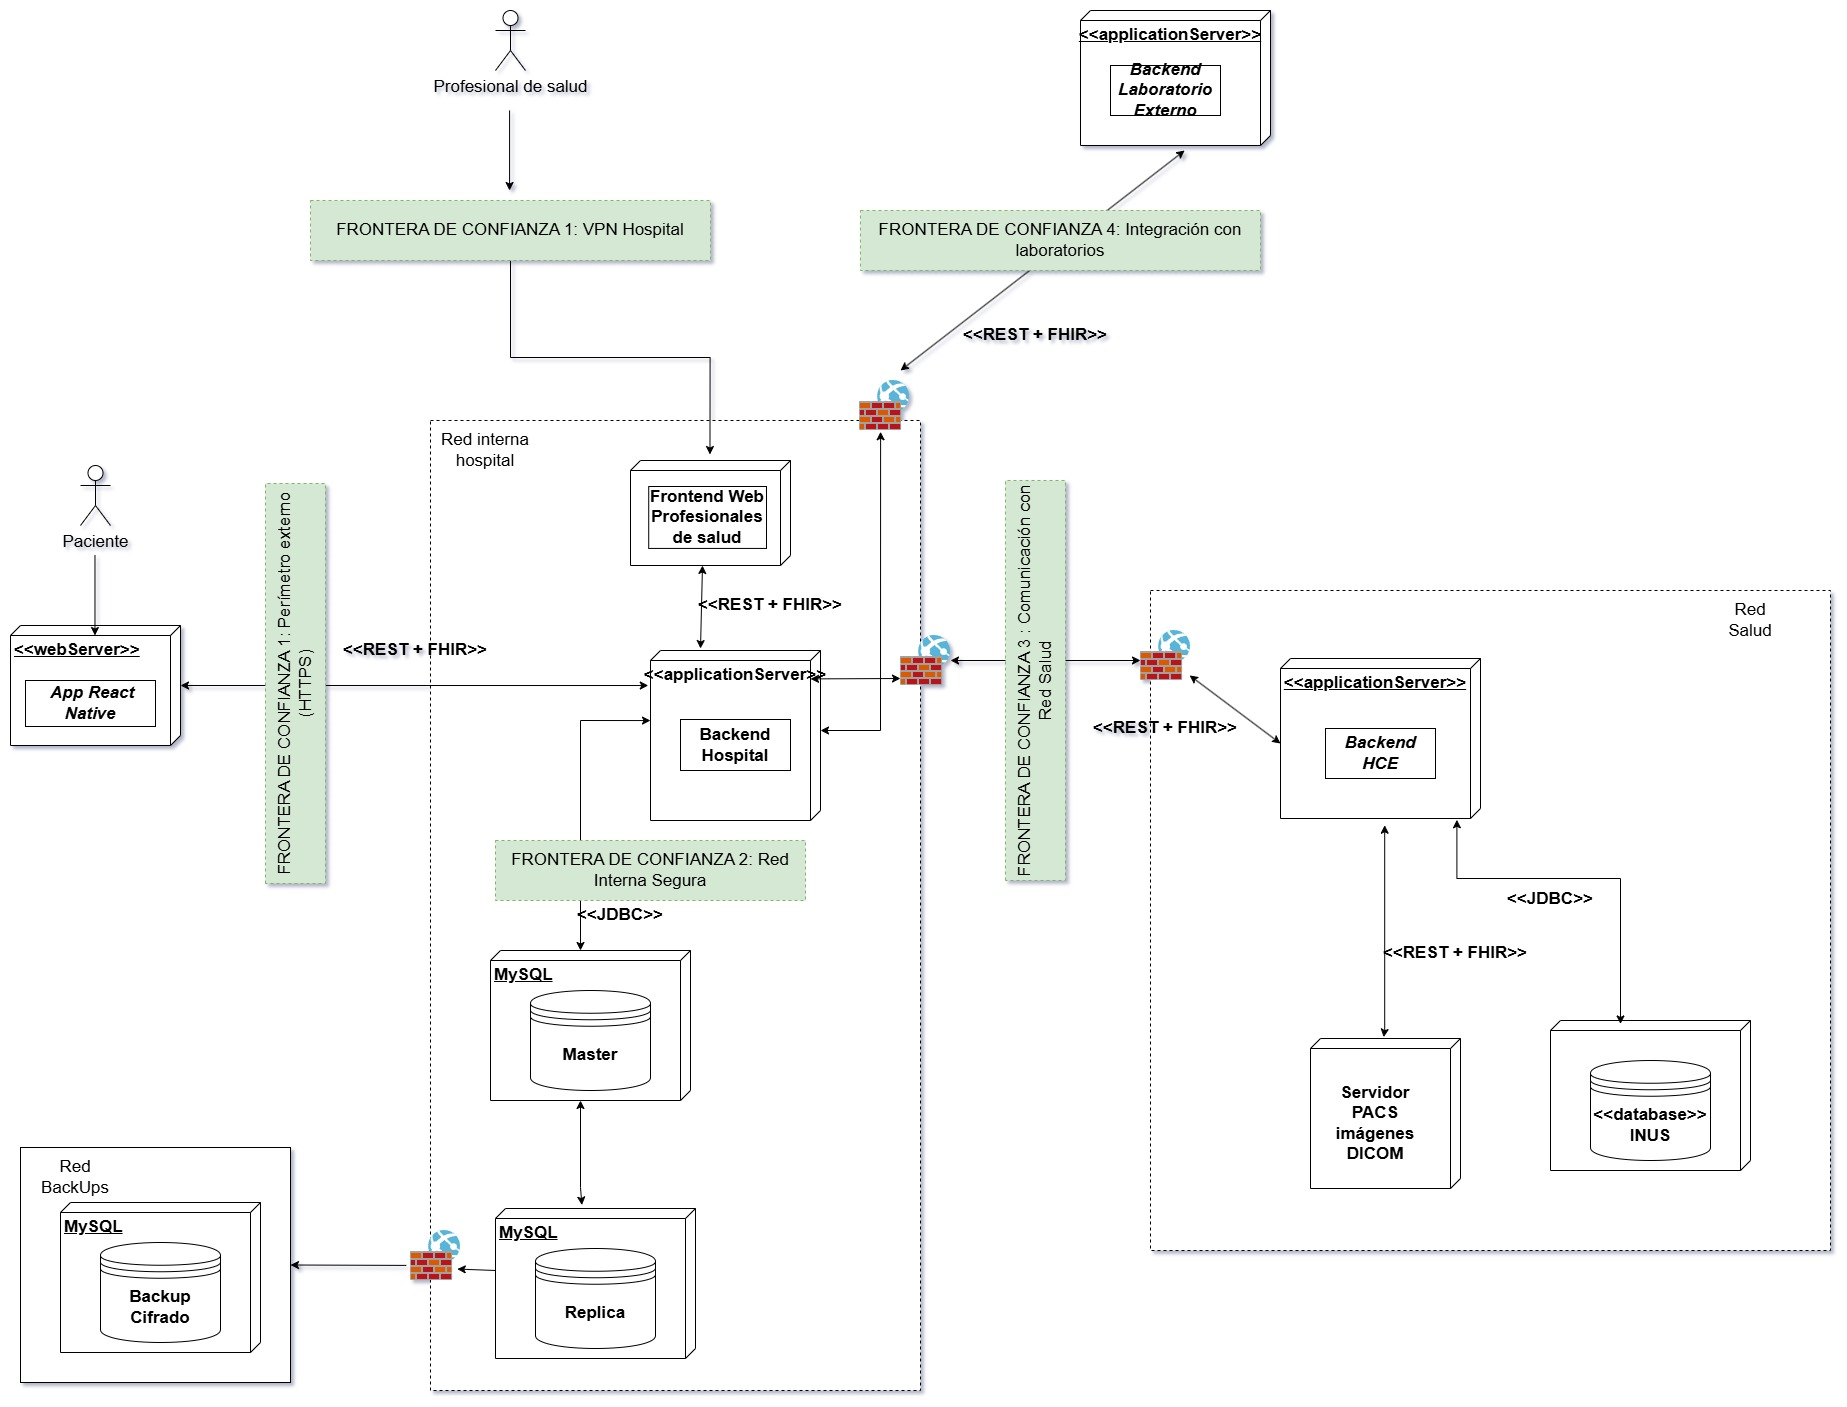
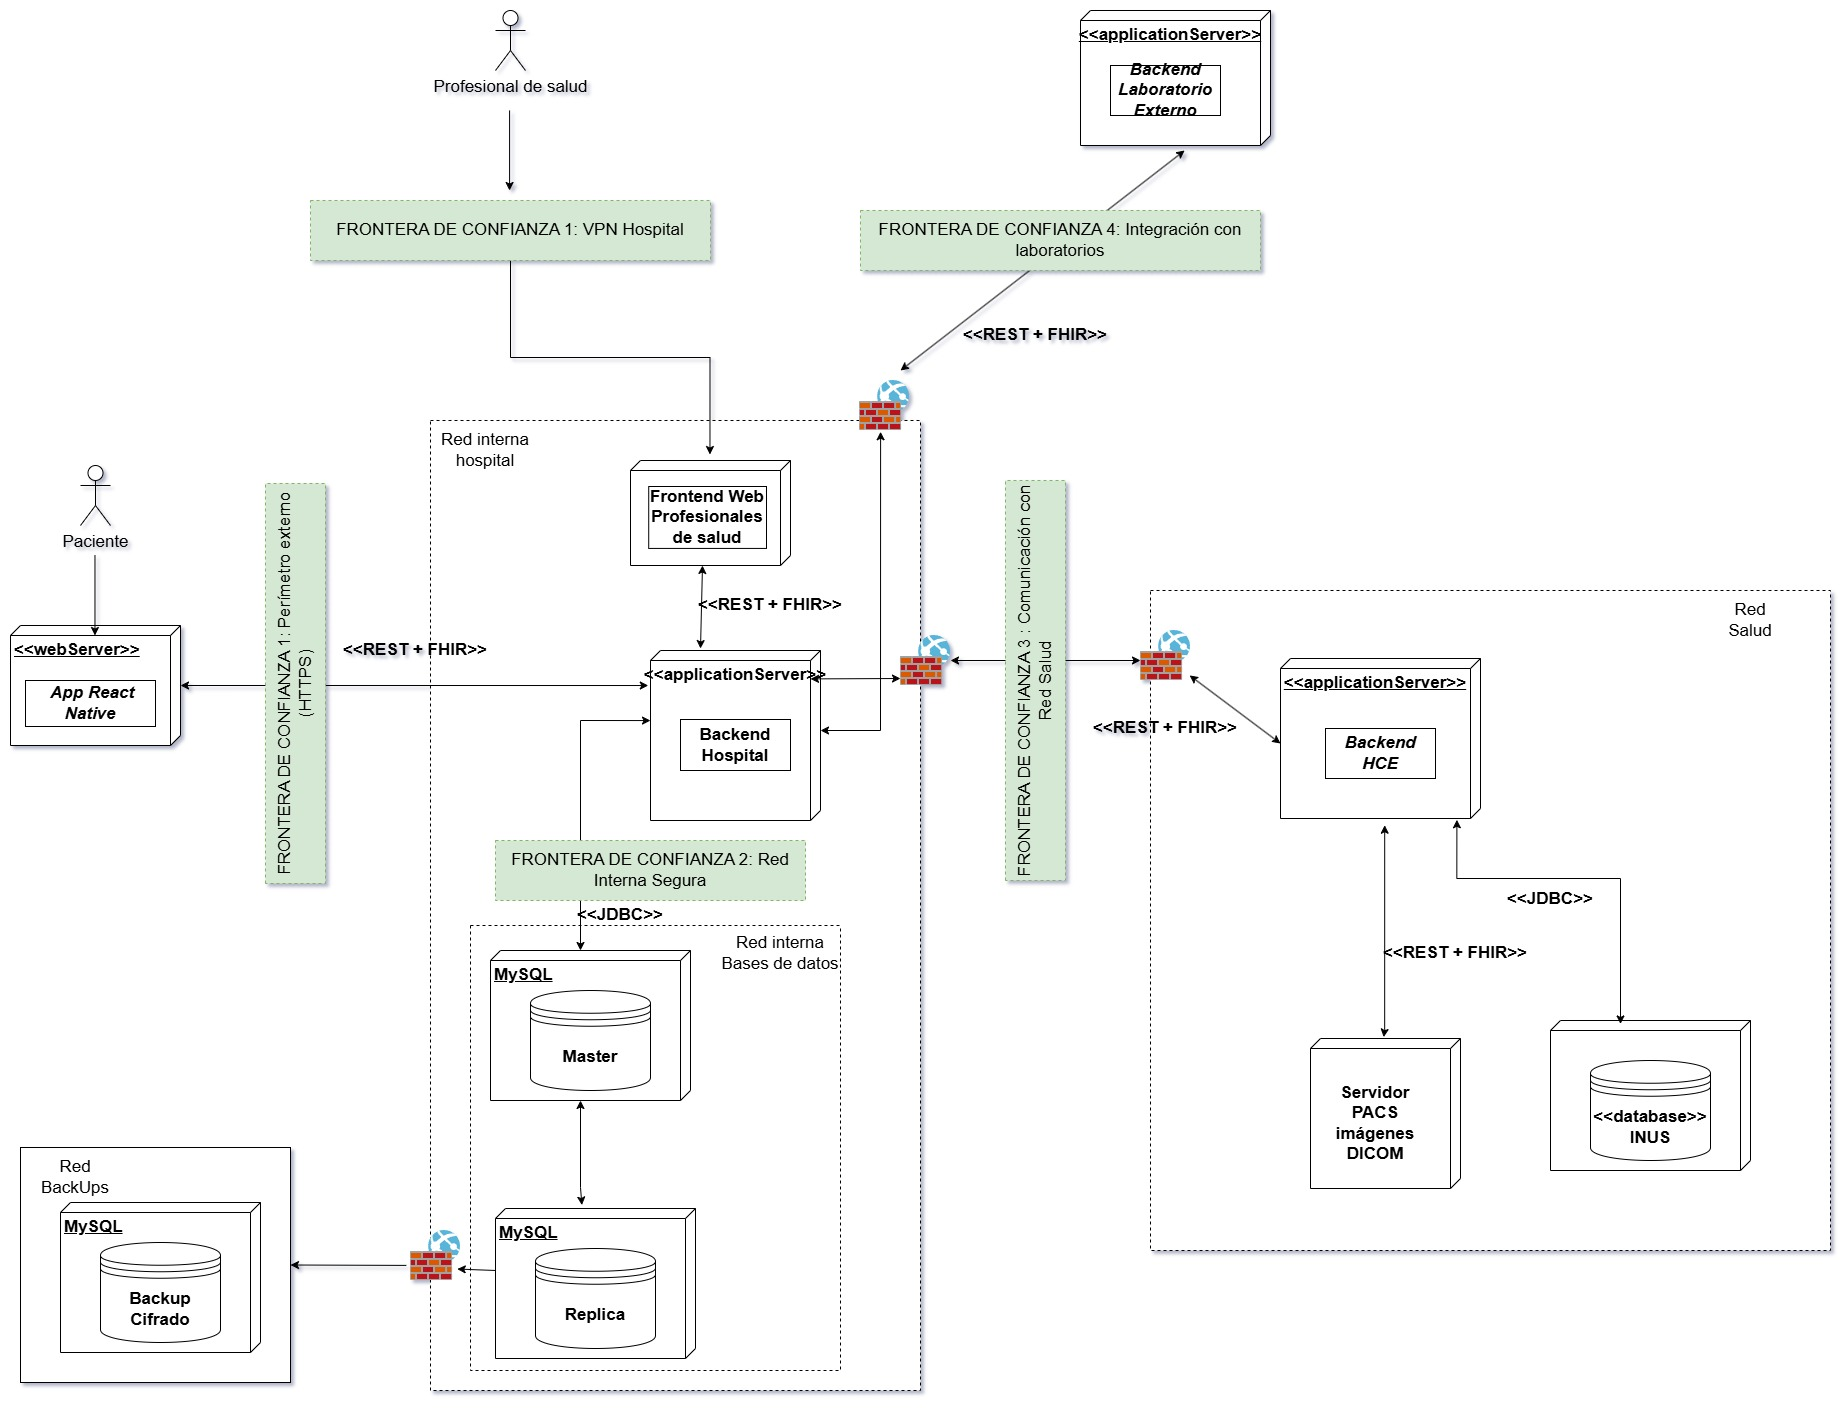
Modificacion en arquitectura

diff --git a/Análisis de Riesgos y Modelado de Amenazas.md b/Análisis de Riesgos y Modelado de Amenazas.md
@@ -68,7 +68,7 @@ El sistema consiste en una plataforma de Historia Clínica Electrónica (HCE) qu
 
 ### **3.1. Diagrama de Arquitectura**
 
-![][image1]
+![image1](</diagrams/Diagrama Arquitectura_v2.jpg>)
 
 ### **3.2. Flujo de datos**
 